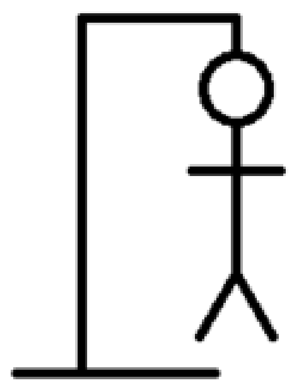
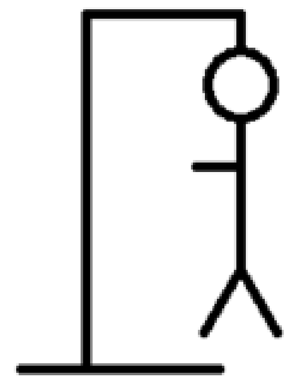
fix image counting and add additional validations

Changed region(s): [[0.0303, 0.0, 0.9697, 1.0]]

diff --git a/app/assets/stylesheets/game.scss b/app/assets/stylesheets/game.scss
@@ -59,70 +59,16 @@ p {
   font-size: 1.1em;
   line-height: 1.7em;
 }
-/* footer */
+/* tables */
+table {
 
-footer {
-  margin-top: 45px;
-  padding-top: 5px;
-  border-top: 1px solid $gray-medium-light;
-  color: $gray-light;
-  a {
-    color: $gray;
-    &:hover {
-      color: $gray-darker;
-    }
-  }
-  small {
-    float: left;
-  }
-  ul {
-    float: right;
-    list-style: none;
-    li {
-      float: left;
-      margin-left: 15px;
-    }
+  th {
+  padding-right: 10px;
   }
 }
-@mixin box_sizing {
-  -moz-box-sizing:    border-box;
-  -webkit-box-sizing: border-box;
-  box-sizing:         border-box;
-}
-
-.debug_dump {
-  clear: both;
-  float: left;
-  width: 100%;
-  margin-top: 45px;
-  @include box_sizing;
-}
-/* rows */
-
 
 /* forms */
-
-input, textarea, select, .uneditable-input {
-  border: 1px solid #bbb;
-  width: 100%;
-  margin-bottom: 15px;
-  @include box_sizing;
-}
-
-input {
-  height: auto !important;
-}
-#error_explanation {
-  color: red;
-  ul {
-    color: red;
-    margin: 0 0 30px 0;
-  }
-}
-
-.field_with_errors {
-  @extend .has-error;
-  .form-control {
-    color: $state-danger-text;
-  }
+.text_field {
+  width: 100px;
+  margin: 0px;
 }

diff --git a/app/models/game.rb b/app/models/game.rb
@@ -1,5 +1,5 @@
 class Game < ApplicationRecord
-  INITIAL_LIVES = 8
+  INITIAL_LIVES = 7
 
   has_many :guesses
   belongs_to :answer
@@ -9,8 +9,7 @@ class Game < ApplicationRecord
   validates :lives, presence: true,
    numericality: { only_integer: true, maximum: 9 }
 
-# it can provide a default value here (instead of using a constant where possible
-  def incorrect_guesses
+   def incorrect_guesses
     guesses.select{ |guess| guess.letter if answer.word.exclude?(guess.letter)}
   end
 
@@ -23,13 +22,11 @@ class Game < ApplicationRecord
     answer_mask = answer.word.split("").to_ary
     answer_mask.map{ |answer_letter| answer_letter if (correct_guesses.map {
       |correct_letter| correct_letter.letter} ).include? answer_letter }
-
-    # This currently works but unrevealed answers are currently set to nil instead of "_".
-    # This is sufficient for functionality but not suitable for UX.
-    # EDIT: Andrew helped me and now it does this at a view layer.
   end
 
   def win_condition
+    # values here are used as a form of 'state machine' to manage the 3 possible states the game can have.
+    # Ideally i would like to make it so additional guesses cannot be made one a game reaches win or loss conditions
     if (answer_split - correct_guesses.pluck(:letter)).empty?
       return 1
     elsif lives <= 0
@@ -47,7 +44,6 @@ class Game < ApplicationRecord
     end
   end
 
-  #before create may be more appropriate here
   def set_lives
     if guesses.count == 0
       self.lives = INITIAL_LIVES

diff --git a/test/models/game_test.rb b/test/models/game_test.rb
@@ -1,6 +1,7 @@
 require 'test_helper'
 
 class GameTest < ActiveSupport::TestCase
+  GUESSES = ("a".."z").to_a
   # test "the truth" do
   #   assert true
   # end
@@ -14,15 +15,19 @@ class GameTest < ActiveSupport::TestCase
 
   test "game has guesses associated with it" do
     @game.guesses.create(letter: "a")
-    assert @game.guesses.present?
+    @game.answer
   end
 
   test "incorrect guesses do not exceed the amount of lives a player has" do
-
+    letters_not_in_answer =  GUESSES - @game.answer.word.chars
+    letters_not_in_answer.each{ |letter|
+      @game.guesses.create!(letter: letter)
+    }
+    assert @game.guesses.count <= 8
   end
 
   test "the hangman image correctly correlates to the lives the player has" do
-
+    #This cant be done here - needs to be in a cuke? as its attempting to reference view logic
   end
 
   test "verify at point of initialization that lives equal the constant" do
@@ -31,5 +36,11 @@ class GameTest < ActiveSupport::TestCase
   test "verify that lives decrease as guesses are made" do
     @game.guesses.create(letter: "y")
     assert @game.lives = 7
+  end
+#should this be done here or in the guess_test model?
+  test "duplicate guesses should not be allowed within the same game" do
+    @game.guesses.create(letter: "z")
+    @game.guesses.create(letter: "z")
+    assert @game.guesses.count == 1
   end
 end

diff --git a/app/models/guess.rb b/app/models/guess.rb
@@ -1,9 +1,11 @@
 class Guess < ApplicationRecord
   VALID_LETTER_REGEX = /\A[a-z]{1}\z/
 
+  #validates :has_lives, on: :create
   validates :letter,
   presence: true,
-  #uniqueness: true, #check to set a scope to uniqueness so it is only checking within the same game
+  # This works for validating uniqueness at the game level but it still submits the duplicate to the Incorrect_guesses layer even if it doesnt persist the duplicate guess
+  uniqueness: { scope: :game, },
   format: {
     with: VALID_LETTER_REGEX,
     message: "must be a single alpha character",
@@ -11,6 +13,7 @@ class Guess < ApplicationRecord
 
 
   belongs_to :game
+  validate :has_lives, on: :create
   after_save :update_lives
 
   def update_lives
@@ -18,10 +21,13 @@ class Guess < ApplicationRecord
       self.game.lives
     else
       self.game.lives -= 1
-      self.game.save
-      if self.game.lives <= 0
+      self.game.save unless self.game.valid?
+    end
+  end
 
-      end
+  def has_lives
+    if self.game.lives <= 0
+      errors.add(:loss, "You're out of lives buster.")
     end
   end
 end

diff --git a/app/helpers/game_helper.rb b/app/helpers/game_helper.rb
@@ -1,5 +1,7 @@
 module GameHelper
   def display_hangman_lives(game)
+    #  lives limits are declared here for scenarios where no guesses have been made and when max guesses have been made the image ceases counting
+    # and does not attempt to load assets that dont exist
     if (game.lives >= 0) && (game.lives <= 8)
       image_tag(("lives_" + game.lives.to_s + ".png"), :alt => "Progress to death")
     end

diff --git a/app/services/game_logic.rb b/app/services/game_logic.rb
@@ -2,12 +2,4 @@ class GameLogic < GamesController
 #placeholder for abstraction logic -
 #not appropriate having game logic inside of model/controller
 
-# def win_condition
-#   if (answer_split - correct_guesses.pluck(:letter)).empty?
-#     byebug
-#   elsif lives <= 0
-#     byebug
-#   else
-#     byebug
-#   end
 end

diff --git a/app/controllers/games_controller.rb b/app/controllers/games_controller.rb
@@ -16,7 +16,7 @@ class GamesController < ApplicationController
           flash[:loss] = ""
         end
       end
-      redirect_to @game
+      render 'show'
     else
       render 'show'
     end

diff --git a/test/models/guess_test.rb b/test/models/guess_test.rb
@@ -1,7 +1,6 @@
 require 'test_helper'
 
 class GuessTest < ActiveSupport::TestCase
-  # test "the truth" do
-  #   assert true
-  # end
+   test "guesses must be unique to the game" do
+   end
 end
